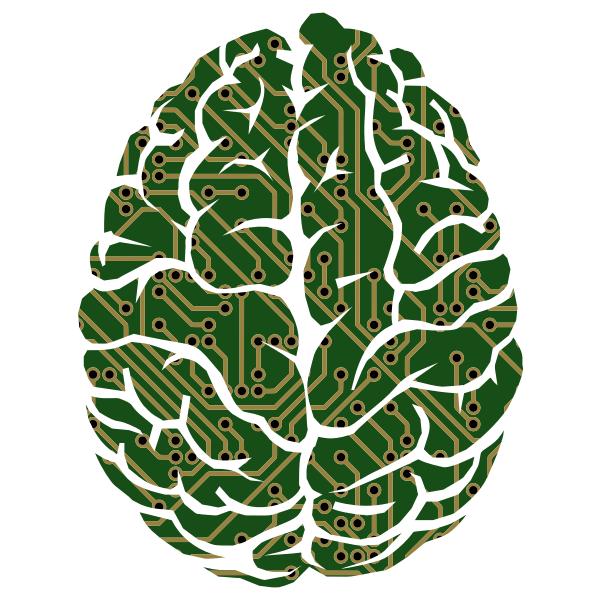
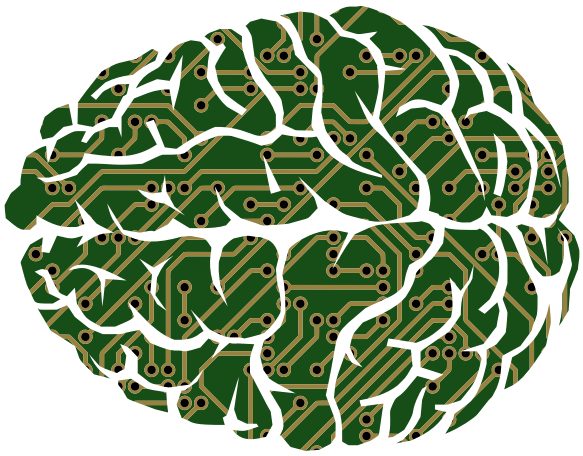
Removed index.ts from all sub components + Removed duplicated .css + Removed unneeded CSS files + Cropped the images to fit better on screen

diff --git a/src/frontend/static/frontend/src/components/biomarkers/modalContentBiomarker/biomarkerTypeSelection/BiomarkerTypeSelection.tsx b/src/frontend/static/frontend/src/components/biomarkers/modalContentBiomarker/biomarkerTypeSelection/BiomarkerTypeSelection.tsx
@@ -1,10 +1,12 @@
 import React from 'react'
 import { Card, Grid, Header, Image } from 'semantic-ui-react'
 import { BiomarkerTypeSelected } from '../../types'
-import './BiomarkerTypeSelectionStyles.css'
+import './biomarkerTypeSelectionStyles.css'
+
 interface BiomarkerTypeSelectionProps {
     handleSelectModal: (type: BiomarkerTypeSelected) => void,
 }
+
 export const BiomarkerTypeSelection = (props: BiomarkerTypeSelectionProps) => {
     const cards = [
         {
@@ -14,7 +16,7 @@ export const BiomarkerTypeSelection = (props: BiomarkerTypeSelectionProps) => {
             image: '/static/frontend/img/biomarkers/Empty.png'
         },
         {
-            title: 'Feature Selection/Machine Learning',
+            title: 'Feature Selection/ML',
             description: 'As a starting point, you can select a previously discovered Biomarker, a well-known Biomarker, or a superset of genes that you would like to test. This method will select the molecular subset that fits the better prediction',
             action: () => props.handleSelectModal(BiomarkerTypeSelected.FEATURE_SELECTION),
             image: '/static/frontend/img/biomarkers/Fs3.png'
@@ -25,6 +27,7 @@ export const BiomarkerTypeSelection = (props: BiomarkerTypeSelectionProps) => {
             <Header as="h2" textAlign="center">
                 Create a new Biomarker
             </Header>
+
             <Grid stackable >
                 <Grid.Row columns={3} className='grid--container'>
                     <Grid.Column width={16}>
@@ -39,7 +42,8 @@ export const BiomarkerTypeSelection = (props: BiomarkerTypeSelectionProps) => {
                                     className='card--container'
                                 >
                                     <Card.Content className='card--content'>
-                                        <Image src={card.image} alt={card.title} size='small' />
+                                        <Image src={card.image} alt={card.title} size='small' className='margin-bottom-5' />
+
                                         <Card.Header textAlign='center'>
                                             {card.title}
                                         </Card.Header>
@@ -51,10 +55,8 @@ export const BiomarkerTypeSelection = (props: BiomarkerTypeSelectionProps) => {
                             </Grid.Column>
                         ))
                     }
-
                 </Grid.Row>
             </Grid>
-
         </>
     )
 }

diff --git a/src/frontend/static/frontend/src/components/biomarkers/modalContentBiomarker/manualForm/newBiomarkerForm/TextAreaMolecules.tsx b/src/frontend/static/frontend/src/components/biomarkers/modalContentBiomarker/manualForm/newBiomarkerForm/TextAreaMolecules.tsx
@@ -1,16 +1,19 @@
 import React, { useCallback, useEffect, useState } from 'react'
 import { TextArea } from 'semantic-ui-react'
-import { useDebounce } from '../../../../../../utils/hooks/useDebounce'
-import './textAreaMoleculesStyles.css'
+import { useDebounce } from '../../../../../utils/hooks/useDebounce'
+
 interface TextAreaMoleculesProps {
     handleGenesSymbols: (genes: string[]) => void,
 }
+
 export const TextAreaMolecules = ({ handleGenesSymbols }: TextAreaMoleculesProps) => {
     const [textAreaString, setTextAreaString] = useState({
         name: 'moleculesTextArea',
         value: ''
     })
+
     const debouncedTextAreaString = useDebounce(textAreaString.value, 1000)
+
     const handleInputAreaChange = useCallback((name: string, value: string) => {
         const textFiltered: string[] = []
         const textSplitted = value.split(/,|[|]|;/)
@@ -21,11 +24,13 @@ export const TextAreaMolecules = ({ handleGenesSymbols }: TextAreaMoleculesProps
         handleGenesSymbols(textFiltered)
         setTextAreaString({ ...textAreaString, value: '' })
     }, [handleGenesSymbols])
+
     useEffect(() => {
         if (textAreaString.value) {
             handleInputAreaChange(textAreaString.name, debouncedTextAreaString)
         }
     }, [debouncedTextAreaString, handleInputAreaChange])
+
     return (
         <TextArea
             className="biomarkers--side--bar--text--area"

diff --git a/src/frontend/static/frontend/src/components/biomarkers/modalContentBiomarker/manualForm/ManualForm.tsx b/src/frontend/static/frontend/src/components/biomarkers/modalContentBiomarker/manualForm/ManualForm.tsx
@@ -2,10 +2,11 @@ import React from 'react'
 import { Grid } from 'semantic-ui-react'
 import { BiomarkerType, FormBiomarkerData, MoleculesSectionData, MoleculesTypeOfSelection } from './../../types'
 import { NewBiomarkerForm } from './newBiomarkerForm/NewBiomarkerForm'
-import './manualFormStyles.css'
 import { MoleculeSection } from './moleculeSection/MoleculeSection'
 import { NameOfCGDSDataset } from '../../../../utils/interfaces'
-interface ModalContentBiomarkerProps {
+
+/** ManualForm's props. */
+interface ManualFormProps {
     biomarkerForm: FormBiomarkerData,
     removeSurvivalFormTuple: (datasetName: NameOfCGDSDataset, idxSurvivalTuple: number) => void,
     handleSurvivalFormDatasetChanges: (datasetName: NameOfCGDSDataset, idx: number, name: string, value: any) => void,
@@ -27,7 +28,7 @@ interface ModalContentBiomarkerProps {
 
 }
 
-export const ManualForm = (props: ModalContentBiomarkerProps) => {
+export const ManualForm = (props: ManualFormProps) => {
     return (
         <Grid columns={2} padded stackable divided className='biomarkers--modal--container'>
             <Grid.Column width={4} textAlign='left'>

diff --git a/src/frontend/static/frontend/src/components/biomarkers/modalContentBiomarker/manualForm/newBiomarkerForm/NewBiomarkerForm.tsx b/src/frontend/static/frontend/src/components/biomarkers/modalContentBiomarker/manualForm/newBiomarkerForm/NewBiomarkerForm.tsx
@@ -1,12 +1,10 @@
 import React from 'react'
 import { Segment, Header, Icon, Button, Select, Container, Label, Checkbox, Input, TextArea } from 'semantic-ui-react'
-import { TextAreaMolecules } from './textAreaMolecules'
-/* import { checkedValidityCallback } from '../../utils/util_functions' */
+import { TextAreaMolecules } from './TextAreaMolecules'
 import { BiomarkerType, FormBiomarkerData, MoleculesSectionData, MoleculesTypeOfSelection } from './../../../types'
 import './newBiomarkerFormStyles.css'
-import './../../../../../css/base.css'
 import { ButtonsForTypeOfInsert } from './ButtonsForTypeOfInsert'
-import { SelectDropDownSingleMolecule } from './selectDropdownSingleMolecule/SelectDropDownSingleMolecule'
+import { SelectDropDownSingleMolecule } from './SelectDropDownSingleMolecule'
 
 /**
  * Component's props

diff --git a/src/frontend/static/frontend/src/components/biomarkers/modalContentBiomarker/manualForm/moleculeSection/MoleculeSection.tsx b/src/frontend/static/frontend/src/components/biomarkers/modalContentBiomarker/manualForm/moleculeSection/MoleculeSection.tsx
@@ -2,8 +2,7 @@ import React, { useState, useEffect } from 'react'
 import { Button, Dimmer, Grid, Icon, Loader, Segment } from 'semantic-ui-react'
 import { BiomarkerType, MoleculesSectionData, MoleculeSectionItem } from '../../../types'
 import './moleculeSectionStyles.css'
-import { SearchMoleculesInput } from './searchMoleculesInput/SearchMoleculesInput'
-import './../../../../../css/base.css'
+import { SearchMoleculesInput } from './SearchMoleculesInput'
 
 interface MoleculeSectionProps {
     title: BiomarkerType,

diff --git a/src/frontend/static/frontend/src/components/biomarkers/modalContentBiomarker/manualForm/newBiomarkerForm/SelectDropDownMolecules.tsx b/src/frontend/static/frontend/src/components/biomarkers/modalContentBiomarker/manualForm/newBiomarkerForm/SelectDropDownMolecules.tsx
@@ -1,7 +1,7 @@
 import React, { useCallback, useEffect, useState } from 'react'
 import { Container, Dropdown, DropdownItemProps } from 'semantic-ui-react'
-import { useDebounce } from '../../../../../../utils/hooks/useDebounce'
-import { MoleculesMultipleSelection } from '../../../../types'
+import { useDebounce } from '../../../../../utils/hooks/useDebounce'
+import { MoleculesMultipleSelection } from '../../../types'
 import './selectDropDownMoleculesStyles.css'
 
 interface SelectDropDownMoleculesProps {

diff --git a/src/frontend/static/frontend/src/components/biomarkers/modalContentBiomarker/manualForm/newBiomarkerForm/SelectDropDownSingleMolecule.tsx b/src/frontend/static/frontend/src/components/biomarkers/modalContentBiomarker/manualForm/newBiomarkerForm/SelectDropDownSingleMolecule.tsx
@@ -1,7 +1,7 @@
 import React, { useCallback, useEffect, useState } from 'react'
 import { Container, Dropdown } from 'semantic-ui-react'
 import { debounce } from 'lodash'
-import { MoleculesSectionData, MoleculesSymbolFinder } from '../../../../types'
+import { MoleculesSectionData, MoleculesSymbolFinder } from '../../../types'
 
 /** SelectDropDownSingleMolecule props. */
 interface SelectDropDownSingleMoleculeProps {

diff --git a/src/frontend/static/frontend/src/components/biomarkers/modalContentBiomarker/manualForm/moleculeSection/SearchMoleculesInput.tsx b/src/frontend/static/frontend/src/components/biomarkers/modalContentBiomarker/manualForm/moleculeSection/SearchMoleculesInput.tsx
@@ -1,7 +1,6 @@
 import React, { FormEvent, useState } from 'react'
 import { Input, Icon } from 'semantic-ui-react'
-import { BiomarkerType } from '../../../../types'
-import './../moleculeSectionStyles.css'
+import { BiomarkerType } from '../../../types'
 
 interface SearchMoleculesProps {
     handleSearchData: (searchData: string) => void,

diff --git a/src/frontend/static/frontend/src/css/biomarkers.css b/src/frontend/static/frontend/src/css/biomarkers.css
@@ -15,3 +15,18 @@
 .biomarkers--side--bar--buttons-group {
     width: 100%;
 }
+
+.biomarkers--side--bar--text--area {
+    margin: 1rem 0;
+    width: 100%;
+    height: 100%;
+}
+
+.biomarkers--side--bar--input--selection {
+    margin: 0.5rem 0;
+    width: 100%;
+}
+
+.biomarkers--modal--container {
+    height: 100%;
+}

diff --git a/src/frontend/static/frontend/src/components/biomarkers/modalContentBiomarker/biomarkerTypeSelection/biomarkerTypeSelectionStyles.css b/src/frontend/static/frontend/src/components/biomarkers/modalContentBiomarker/biomarkerTypeSelection/biomarkerTypeSelectionStyles.css
@@ -5,12 +5,14 @@
 .grid--container {
     margin: 0 4rem;
 }
+
 .card--content{
     justify-content: center;
     align-items: center;
     display: flex;
     flex-direction: column;
 }
+
 .card--container{
-    height: 100%;
+    height: 40vh;
 }

diff --git a/src/frontend/static/frontend/src/components/biomarkers/modalContentBiomarker/manualForm/newBiomarkerForm/newBiomarkerFormStyles.css b/src/frontend/static/frontend/src/components/biomarkers/modalContentBiomarker/manualForm/newBiomarkerForm/newBiomarkerFormStyles.css
@@ -10,9 +10,11 @@
     width: 100%;
     height: 100%;
 }
+
 .biomarkers--side--bar--container--item--margin {
     margin: 0.5rem 0;
 }
+
 .biomarkers--side--bar--buttons--box {
     align-self: flex-end;
     display: flex;
